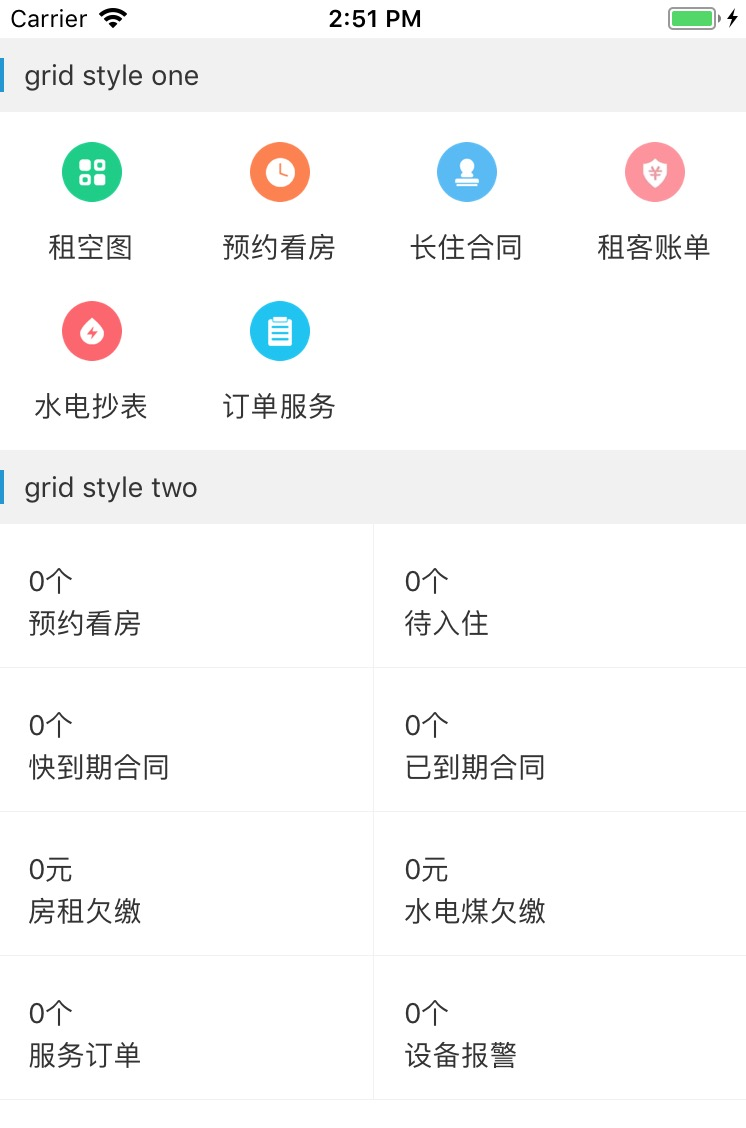
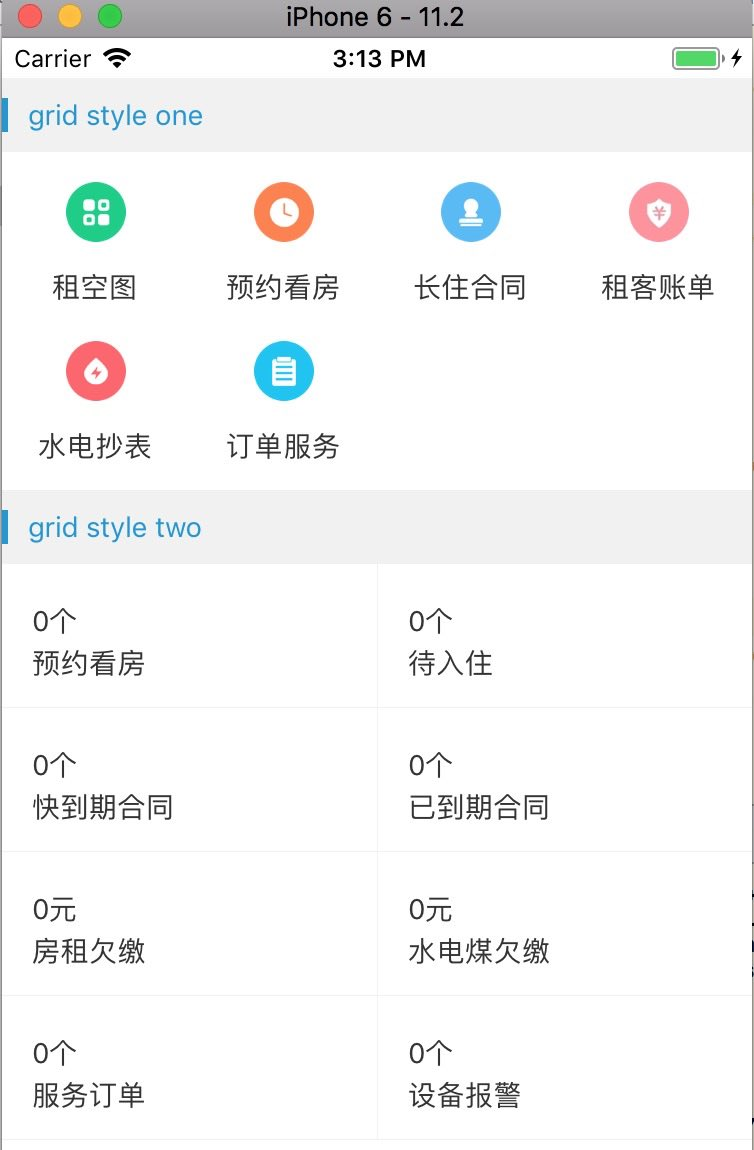
更新screenshots

diff --git a/example/view/home-section.js b/example/view/home-section.js
@@ -37,7 +37,7 @@ const styles = StyleSheet.create({
     title: {
         marginLeft: 10,
         flexGrow: 1,
-        color: color.black,
+        color: color.theme,
         fontSize: 14,
     }
 });
